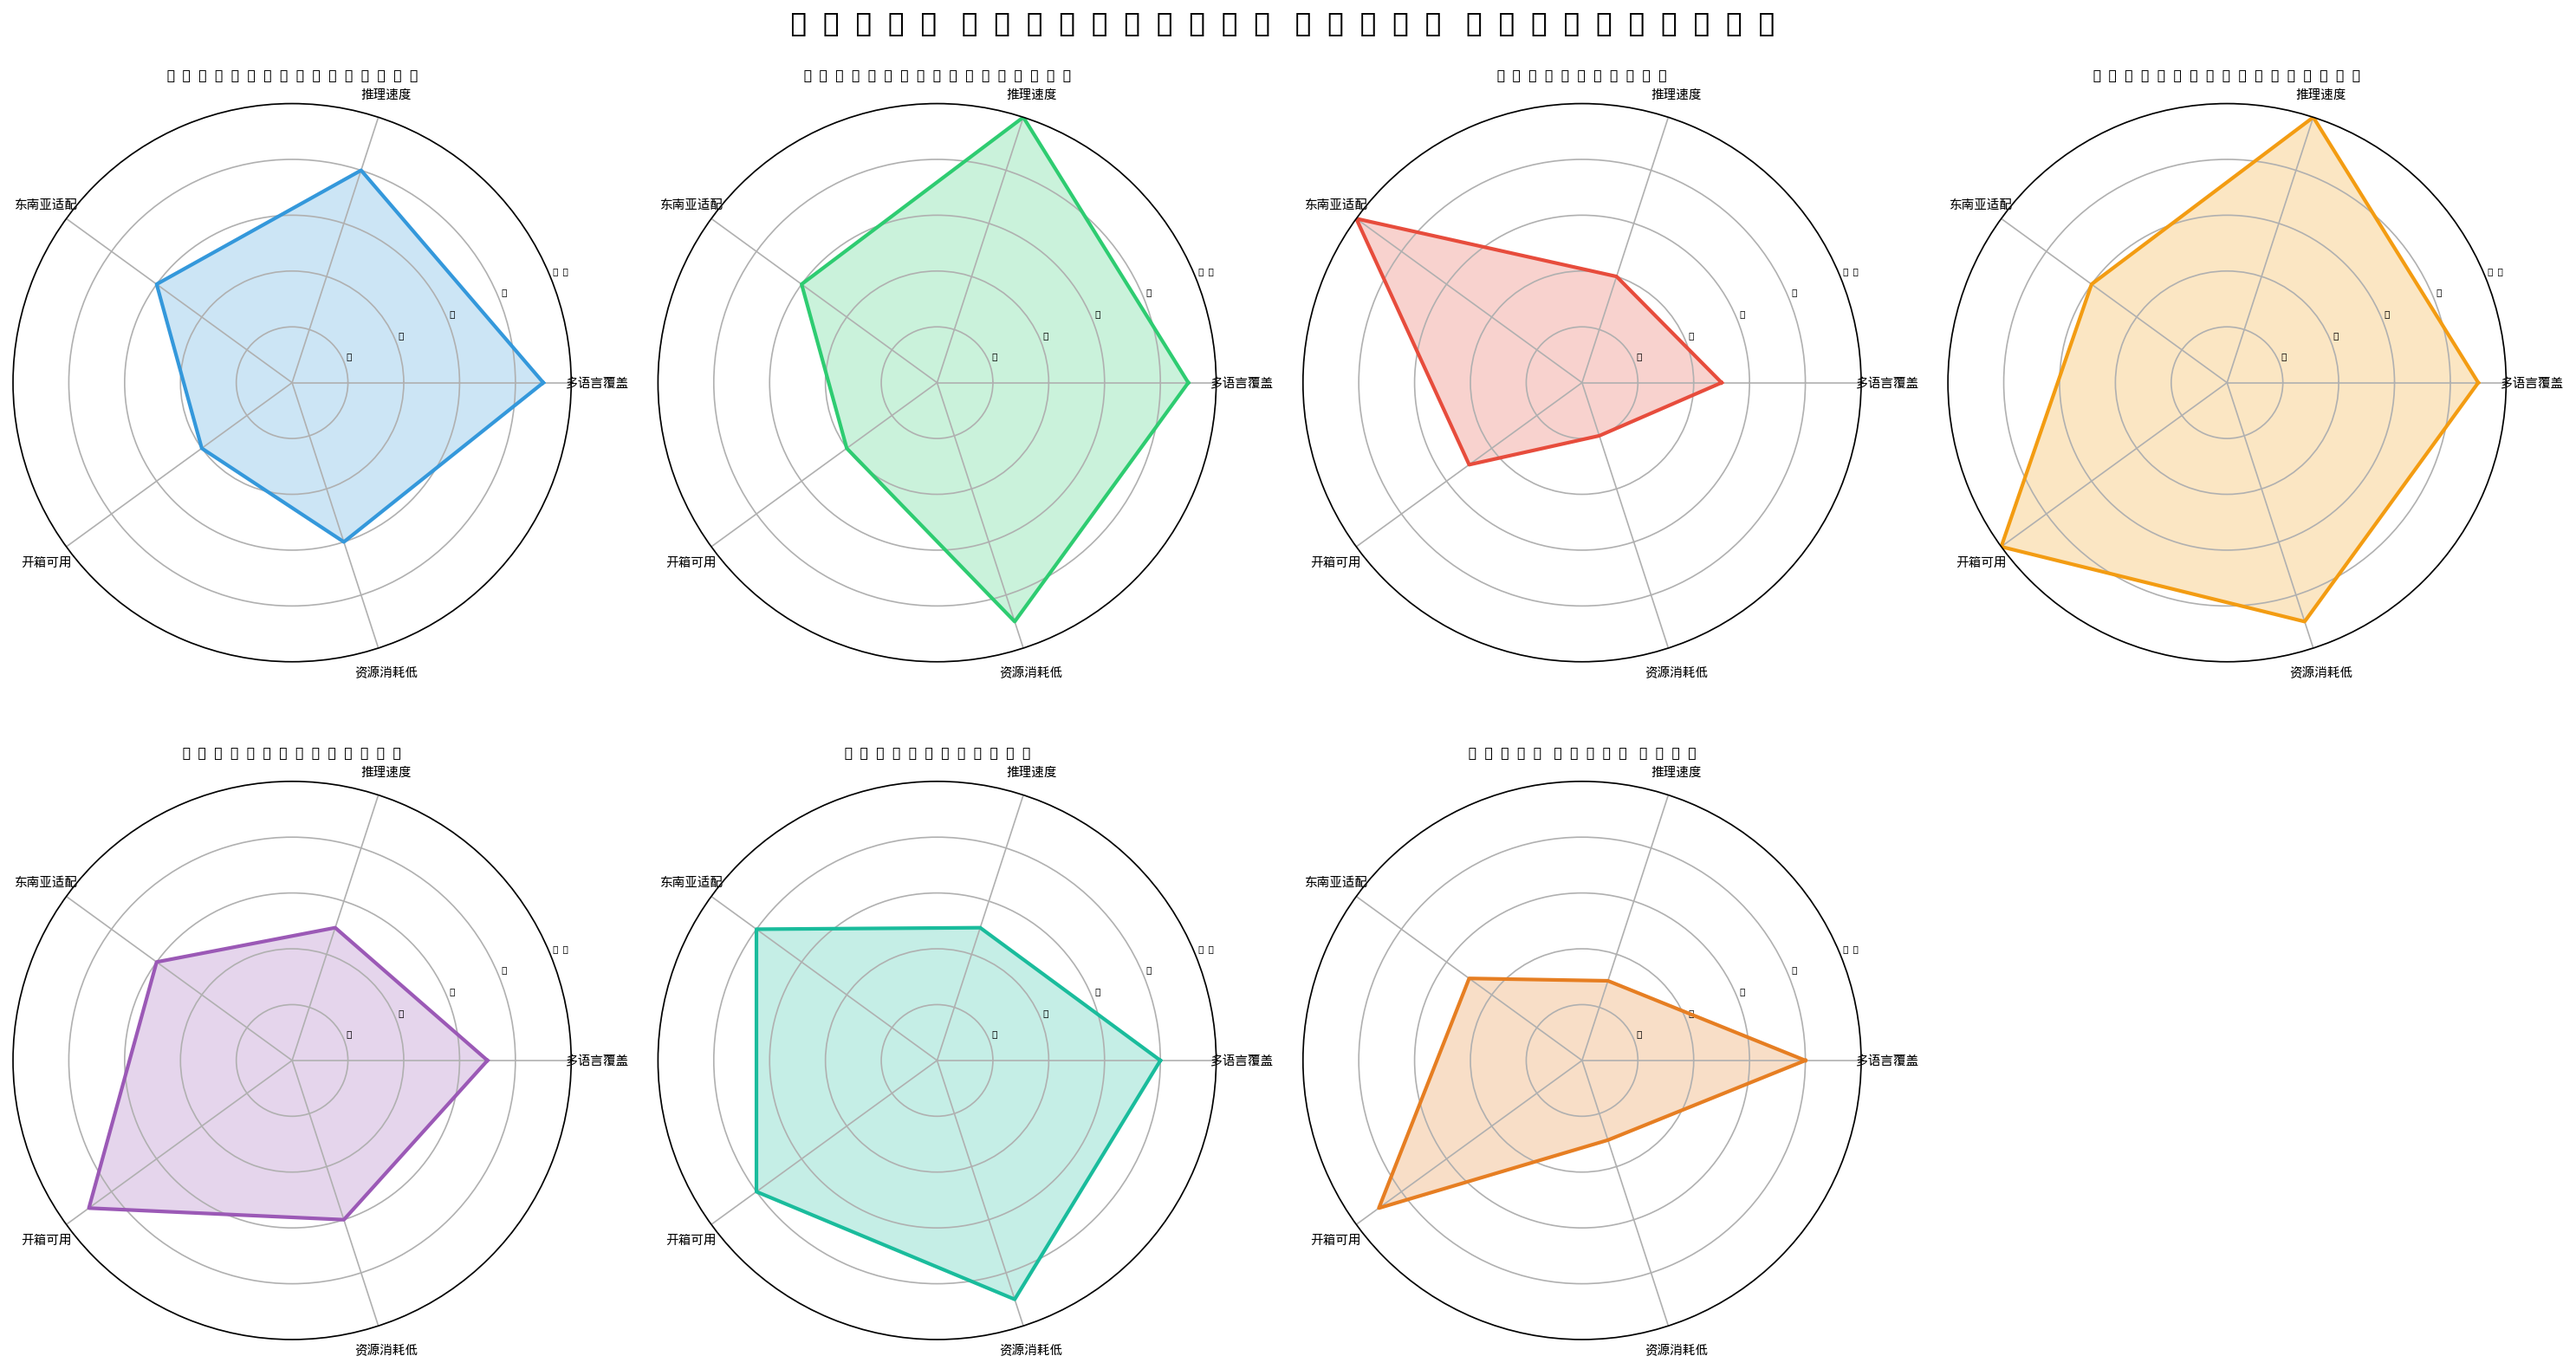
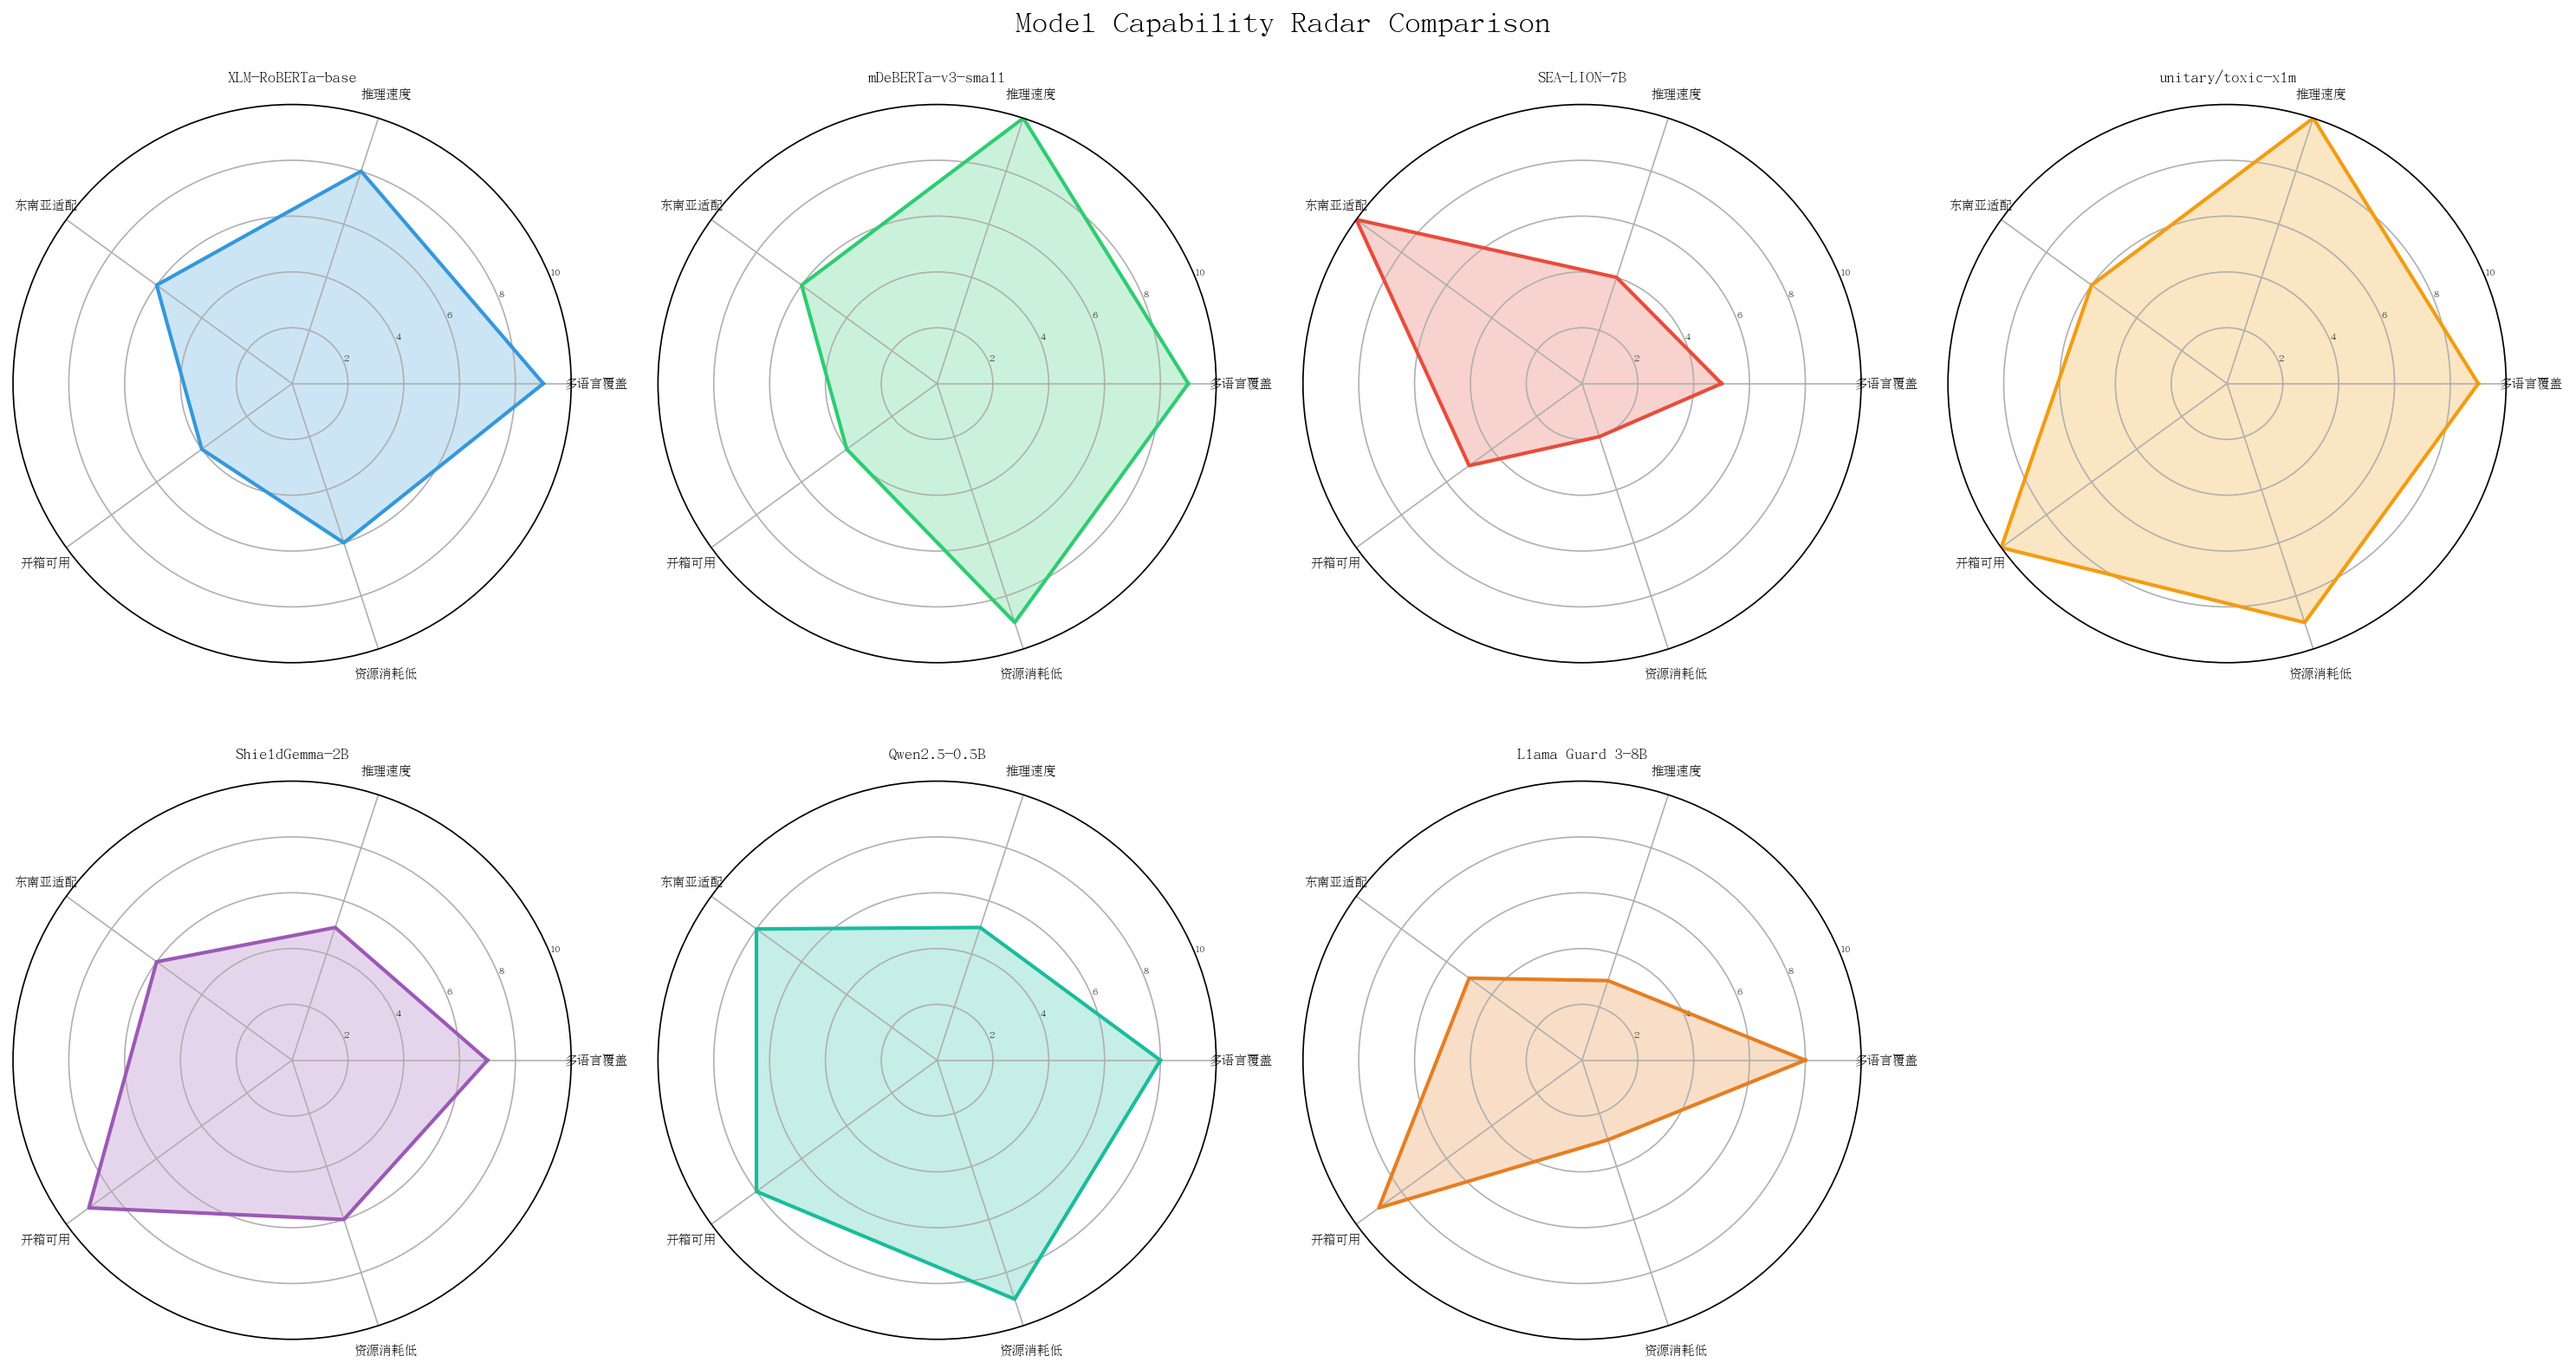
Fix Chinese font: use AR PL SungtiL GB instead of Droid Sans Fallback
DroidSansFallbackFull.ttf is a CJK-only font without Latin glyphs,
causing garbled text in charts. Replaced with AR PL SungtiL GB which
includes both Latin and CJK characters. Also replaced unsupported
⬛ with ■.

diff --git a/charts.py b/charts.py
@@ -12,7 +12,9 @@ import numpy as np
 import os
 
 os.makedirs("charts", exist_ok=True)
-plt.rcParams["font.sans-serif"] = ["Droid Sans Fallback"] + plt.rcParams["font.sans-serif"]
+import matplotlib.font_manager as fm
+fm.fontManager.addfont("/usr/share/fonts/truetype/arphic-gbsn00lp/gbsn00lp.ttf")
+plt.rcParams["font.family"] = "AR PL SungtiL GB"
 plt.rcParams["axes.unicode_minus"] = False
 
 # %% 图表1: 模型家族演化树 ——————————————————————————————————————
@@ -509,7 +511,7 @@ for i in range(len(scenarios)):
         color = "white" if val >= 7 else "black"
         ax.text(j, i, str(val), ha="center", va="center", fontsize=8, fontweight="bold", color=color)
 
-ax.set_title("Scenario × Model Recommendation Heatmap\n(10 = best fit, ⬛ = top recommendation)",
+ax.set_title("Scenario × Model Recommendation Heatmap\n(10 = best fit, ■ = top recommendation)",
              fontsize=15, fontweight="bold", pad=15)
 fig.colorbar(im, ax=ax, shrink=0.8, label="Fit Score")
 
